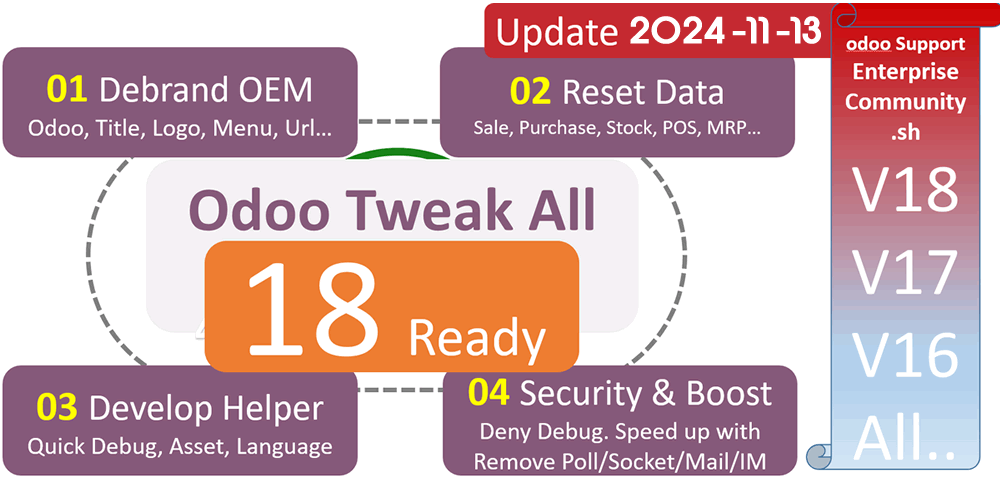
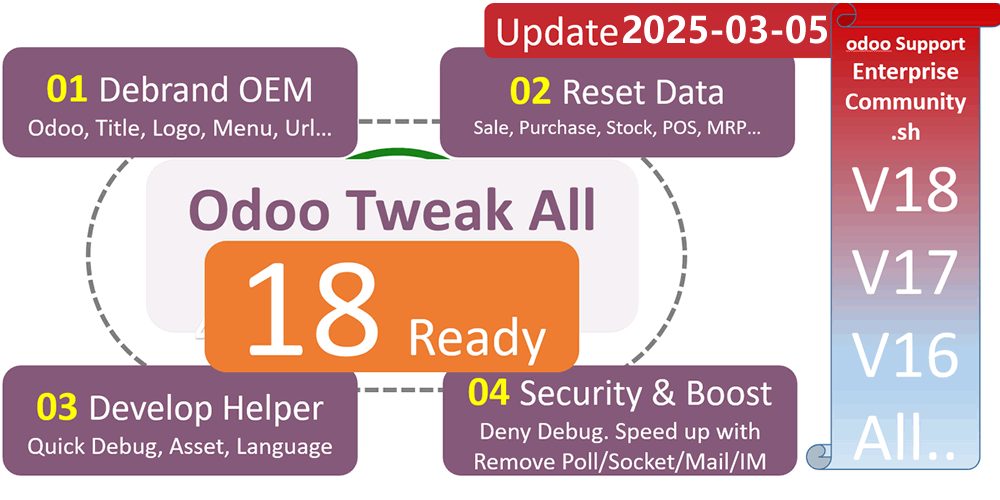
update misc for odoo.com seo

Changed region(s): [[0.62, 0.03, 0.837, 0.09]]

diff --git a/app_odoo_customize/static/description/index.html b/app_odoo_customize/static/description/index.html
@@ -1,3 +1,4 @@
+<?xml version="1.0" encoding="utf-8"?>
 <!--
 # -*- coding: utf-8 -*-
 ##############################################################################
@@ -18,7 +19,7 @@
 <section class="container app">
     <div class="oe_row oe_spaced" style="max-width: 95%;">
         <div class="row">
-            <h2 class="oe_slogan">This is a Long Term Support Apps.Update: v18.24.12.26</h2>
+            <h2 class="oe_slogan">This is a Long Term Support Apps.Update: v18.0.25.03.05</h2>
             <div class="oe_demo" style=" margin: 30px auto 0; padding: 0 15px 0 0; border:none; width: 96%;">
                 <ul class="list-group">
                     <li class="list-group-item">1. Deletes Odoo label in footer</li>

diff --git a/app_odoo_customize/static/description/index_cn.html b/app_odoo_customize/static/description/index_cn.html
@@ -1,3 +1,4 @@
+<?xml version="1.0" encoding="utf-8"?>
 <!--
 # -*- coding: utf-8 -*-
 ##############################################################################